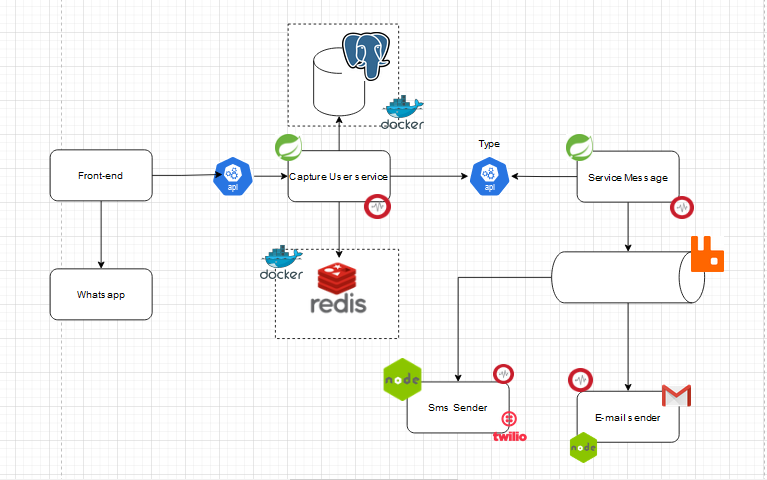
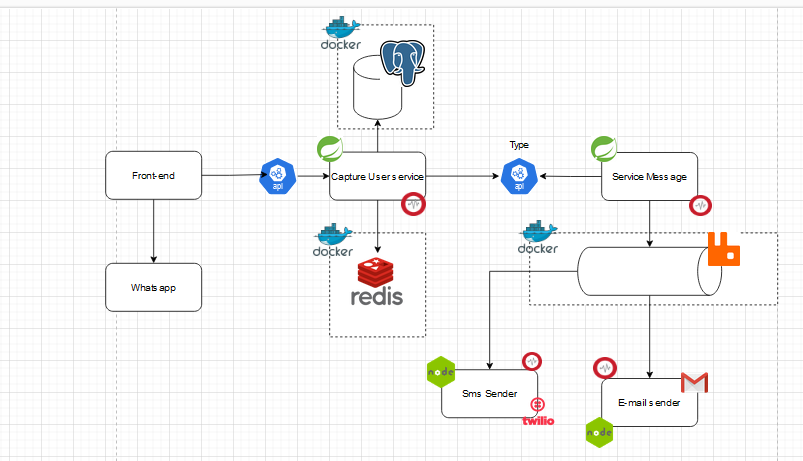
consumming messages from email queue

diff --git a/emailSender/src/consumer/ConsumerMessages.js b/emailSender/src/consumer/ConsumerMessages.js
@@ -1,6 +1,6 @@
 const amqp = require("amqplib");
 require("dotenv").config({ path: "./config/.env" });
-
+const emailService = require("../services/EmailService.js");
 async function startConsumer() {
   try {
     const connection = await amqp.connect(
@@ -16,6 +16,7 @@ async function startConsumer() {
     channel.consume(queueName, (msg) => {
       if (msg !== null) {
         console.log("Mensagem recebida:", msg.content.toString());
+        emailService.send(msg.content.toString());
         channel.ack(msg);
       }
     });

diff --git a/emailSender/src/services/EmailService.js b/emailSender/src/services/EmailService.js
@@ -1,0 +1,8 @@
+const emailCreator = require("../component/EmailCreator.js");
+const send = (msg) => {
+  const consumerMessage = JSON.parse(msg);
+  const email = emailCreator.create(consumerMessage);
+  console.log(email);
+};
+
+module.exports = { send };

diff --git a/emailSender/src/component/EmailCreator.js b/emailSender/src/component/EmailCreator.js
@@ -1,0 +1,7 @@
+const { EmailTemplate } = require("../model/EmailTemplate.js");
+const create = (consumerMessage) => {
+  const { contactValue } = consumerMessage;
+  return new EmailTemplate(contactValue, "oi");
+};
+
+module.exports = { create };

diff --git a/emailSender/src/model/EmailTemplate.js b/emailSender/src/model/EmailTemplate.js
@@ -1,0 +1,16 @@
+class EmailTemplate {
+  constructor(email, body) {
+    this.email = email;
+    this.body = body;
+  }
+
+  getEmail() {
+    this.getEmail;
+  }
+
+  getBody() {
+    this.getBody;
+  }
+}
+
+module.exports = { EmailTemplate };
